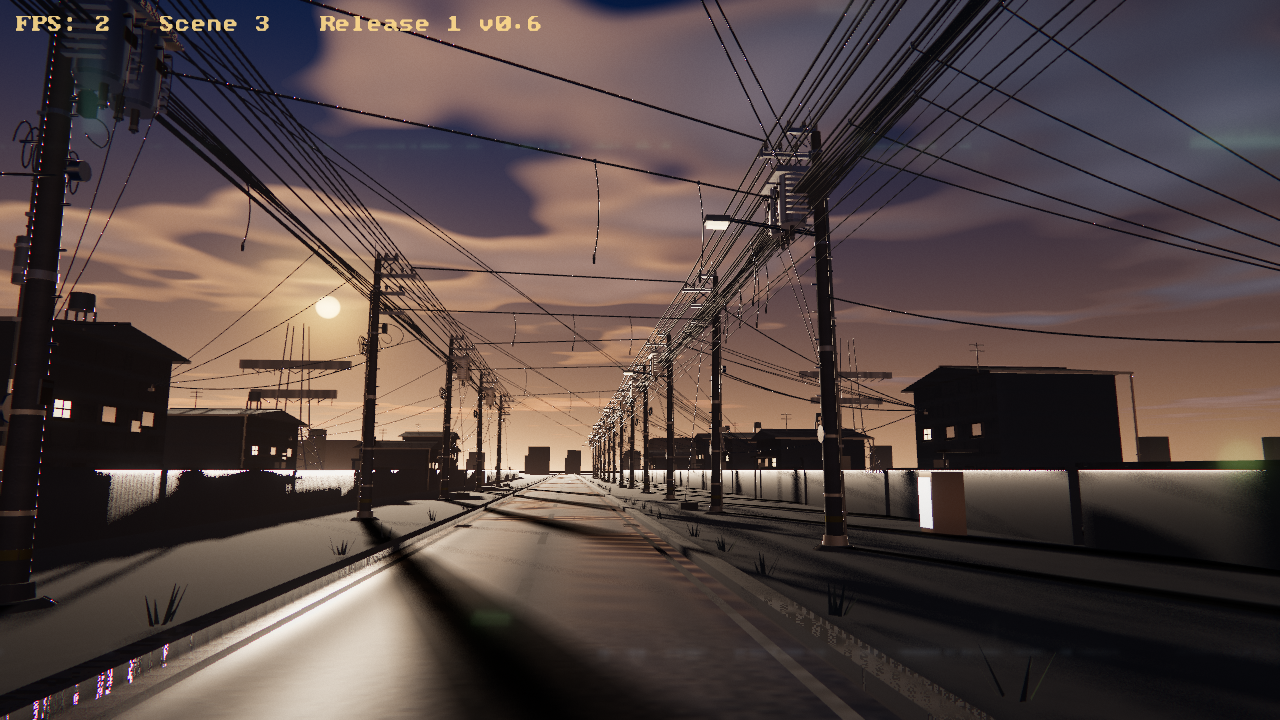
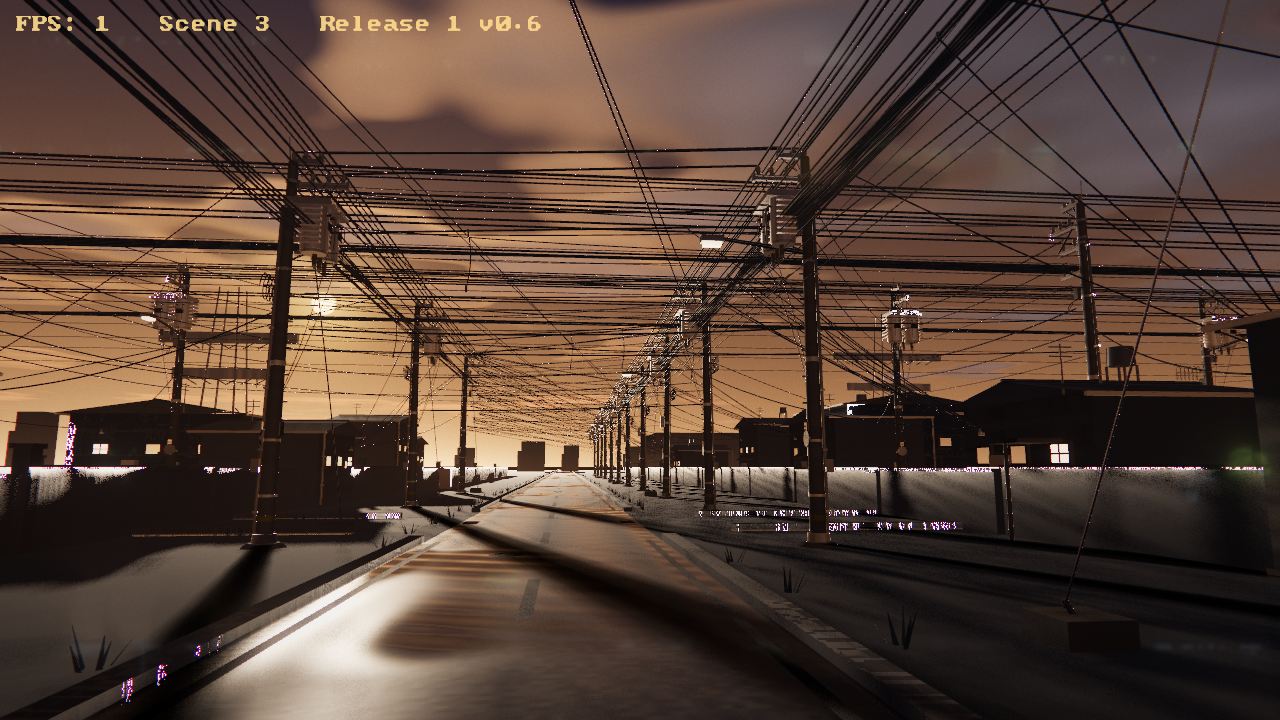
Turn scene 3 amber and put a crossing street in the corridor.
The sky grade moves from blue hour to amber dusk, the wires gain spans strung
straight across the street bay after bay, and a side street now meets the run
with its own kerbs, concrete poles, houses and conductors tied into both main
lines. The auto-dolly pans down each arm of that junction before carrying on.
Screenshots and the corridor GIF are re-rendered from the current build.

🤖 Generated with Codebuff

diff --git a/README.md b/README.md
@@ -15,7 +15,7 @@ headless capture pipeline can still pin the framebuffer exactly.
 |---|---|---|
 | **Scene 1 — Electro Range** | OpenGL 3.3 core, GLSL 3.30 | **110 MP5s** standing in five rings on a polished, wet concrete carousel in a dark hangar, drawn with **instanced draws** (one per model part): full PBR from each part's **six maps** (base colour, normal, metallic, height, AO, roughness), shadow-mapped key light, three moving colour-gelled light bars, real **planar reflections** in the slab, HDR bloom and a scripted crane/dolly camera |
 | **Scene 2** | OpenGL 3.3 core, pixel-shader workloads | An ocean at dusk (3DMark2001 SE "Pixel Shader" benchmark recreation): a **Phillips-spectrum wave set** with deep-water dispersion, ray-marched **screen-space sea reflections**, advected whitecap trails and a cloud deck with second-order light transport |
-| **Scene 3** | OpenGL 3.3 core, analytic shaders | A utility corridor at blue-hour dusk under a **physically-based atmosphere** (Rayleigh + Mie, limb-darkened sun disc, wind-blown cumulus): fat **spun-concrete** pole shafts with band clamps, **pole-mounted transformer banks**, cutouts, PVC riser ducts and number plates, wrapped in a **dense web of 26 thin slack telecom cables per bay**, loose half-abandoned spans, **service drops to every house in reach** and **hanging slack coils and fibre closures**, two lattice cell masts for scale, a **damp asphalt road with cast concrete kerbs that mirrors the sunset**, gutters and downpipes on every house, manholes, storm drains and weeds along the gutter, **per-pixel procedural relief** on the concrete, asphalt, timber and roofing, houses with lit windows and everything has 4x MSAA |
+| **Scene 3** | OpenGL 3.3 core, analytic shaders | A utility corridor at **amber dusk** under a **physically-based atmosphere** (Rayleigh + Mie, limb-darkened sun disc, wind-blown cumulus): fat **spun-concrete** pole shafts with band clamps, **pole-mounted transformer banks**, cutouts, PVC riser ducts and number plates, wrapped in a **dense web of 26 thin slack telecom cables per bay** plus **cross spans strung straight over the street**, loose half-abandoned spans, **service drops to every house in reach** and **hanging slack coils and fibre closures**, a **second street crossing the corridor** with its own kerbs, concrete poles, houses and conductors tied back into the main lines, two lattice cell masts for scale, a **damp asphalt road with cast concrete kerbs that mirrors the sunset**, gutters and downpipes on every house, manholes, storm drains and weeds along the gutter, **per-pixel procedural relief** on the concrete, asphalt, timber and roofing, houses with lit windows, an auto-dolly that **pans down each arm of the junction** before carrying on, and everything has 4x MSAA |
 
 # System requirements : 
 
@@ -46,11 +46,11 @@ The lain scene:
 
 ![ElectroBench scene 3](docs/screenshots/lain_lines.png)
 
-Further down the run, past the kerbside weeds, gutters and storm drains:
+At the junction, the eye turning down the side street's own line of poles:
 
-![ElectroBench scene 3, further down the corridor](docs/screenshots/lain_lines_t24.png)
+![ElectroBench scene 3, looking down the side street at the junction](docs/screenshots/lain_lines_junction.png)
 
-**In motion - but very slow**: the auto-dolly walking the corridor (four positions down the run): the cable web sweeping overhead pole after pole, slack coils swinging past, guy wires pulling into their anchor blocks, and the telecom bundles peeling off toward the eaves:
+**In motion - but very slow**: the auto-dolly walking the corridor (four positions down the run, through the junction and its look left and right): the cable web sweeping overhead pole after pole, slack coils swinging past, guy wires pulling into their anchor blocks, and the telecom bundles peeling off toward the eaves:
 
 ![Scene 3 in motion](docs/screenshots/lain_lines.gif)
 
@@ -118,13 +118,22 @@ Controls : the fly-over camera is automatic from launch; `ESC` quits.
 # Scene 3
 
 **Scene 3** lives in the same ElectroBench binary and is also **OpenGL 3.3 core**. The
-utility corridor: cool gravel under a blue-hour dusk, two lines of steel poles marching to the
-horizon, and a wall of wires over your head. The sky is a physically integrated Rayleigh + Mie
-atmosphere graded for dusk - blue overhead, sodium-amber only in the horizon band and around the
-sun - and because every object's ambient comes from that same sky cubemap, the shadows read blue
-against the warm key instead of the whole frame sitting in one amber wash. Grazing reflections use
-a roughness-aware Fresnel, so rough plaster and asphalt no longer mirror the bright horizon and
-blow out to white, and the walls stay concrete instead of reading as lit panels.
+utility corridor: cool gravel under an amber dusk, two lines of steel poles marching to the
+horizon, and a wall of wires over your head - including spans strung straight across the street
+bay after bay, which is what makes the sky above a wired street read as wired. The sky is a
+physically integrated Rayleigh + Mie atmosphere graded warm: an amber band reaching well up from
+the horizon and around the sun, with the blue left at the zenith, and because every object's
+ambient comes from that same sky cubemap, the shadows read blue against the warm key instead of
+the whole frame sitting in one flat wash. Grazing reflections use a roughness-aware Fresnel, so
+rough plaster and asphalt no longer mirror the bright horizon and blow out to white, and the
+walls stay concrete instead of reading as lit panels.
+
+About halfway down the run a second street crosses the corridor: its own asphalt with kerbs, a
+line of concrete poles down each footpath, houses behind low walls, its own conductors, comms
+bundles and loose spans, and spans tying its poles back into both main lines. The kerbs and edge
+lines of the corridor stop at the junction mouth and pick up again on the far side. The auto-dolly
+turns the eye down one arm of the junction on the way in, swings across to the other, and then
+picks the corridor back up and keeps walking.
 
 - `--screenshot FILE --shot-time S` writes a frame straight out of the
   framebuffer, before the buffer swap. This is what the committed screenshots in
